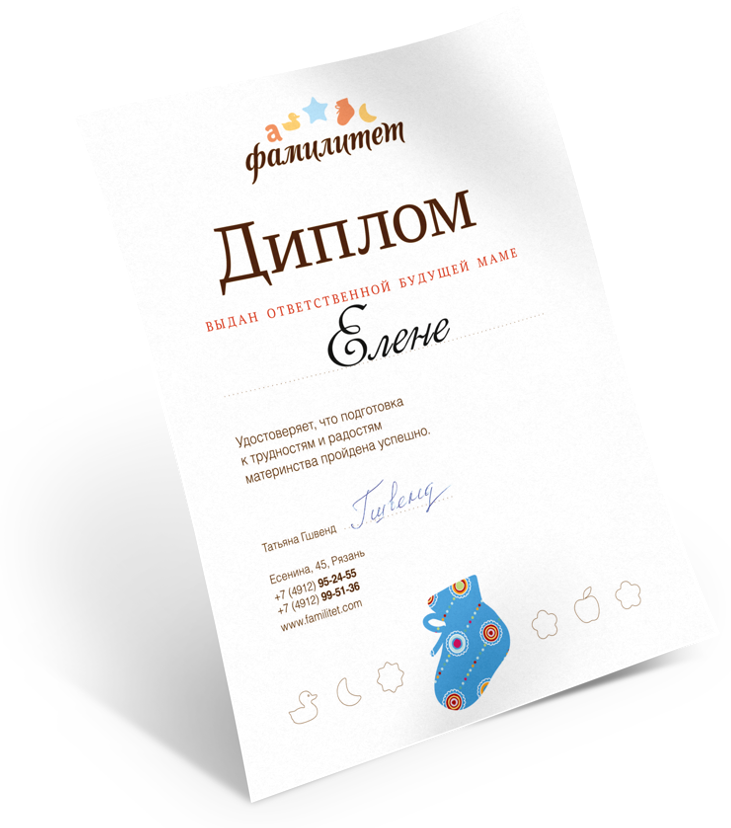
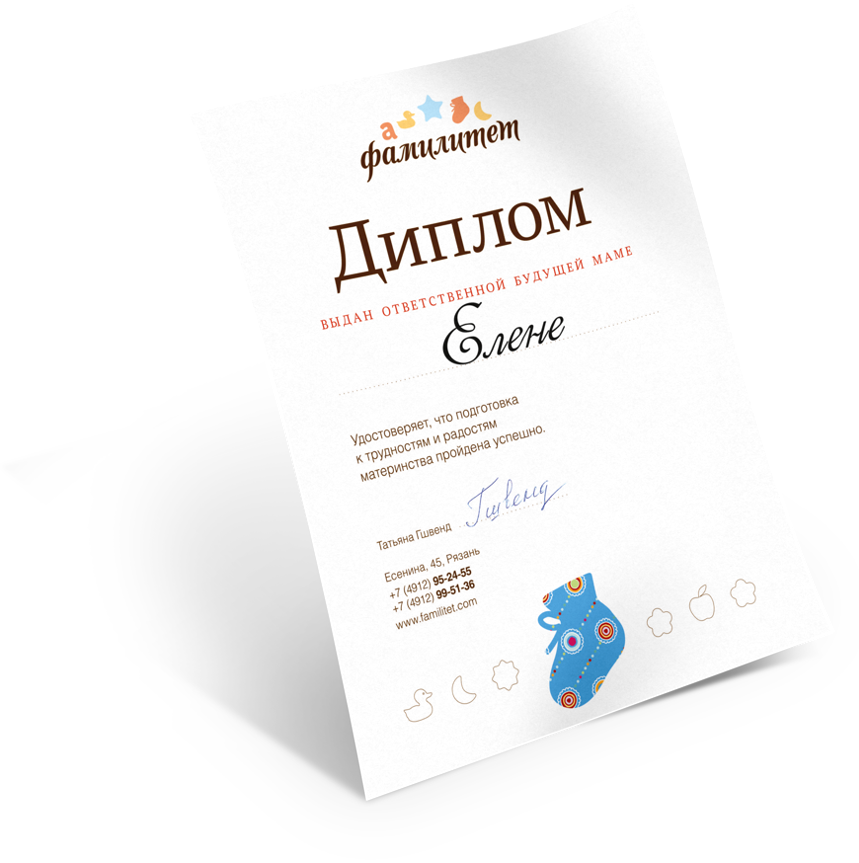
index page

diff --git a/index.html b/index.html
@@ -65,14 +65,31 @@
   <div id="content">
     <div class="container py-3">
       <div class="row">
-        <div class="col-lg-6">
+        <div class="col-lg-6 pb-3 pb-lg-0">
           <h2 class="h1">Для своего ребенка вы &mdash; самые лучшие мама и папа на свете!</h2>
           <p class="lead">Lorem ipsum dolor sit amet consectetur adipisicing elit. Voluptatibus corrupti ipsum reprehenderit facere possimus sapiente dolorum? Quo amet laborum rerum!</p>
           <p class="lead">Lorem ipsum dolor sit amet consectetur adipisicing elit. Delectus optio dicta nostrum voluptatem ut ratione natus rerum odit magni fuga.</p>
           <a class="lead" href="#">Подробно о нашем центре</a>
         </div>
-        <div class="col-lg-6">
-  
+        <div class="col-lg-6 pb-3 pb-lg-0">
+          <div class="schedule-grid">
+            <div class="schedule-date">
+              <div class="date-day calendar-flower">23</div>
+              <div class="date-month text-site-ruby">сентября</div>
+            </div>
+            <div class="schedule-content">
+              <h4>Встреча с неонатологом</h4>
+              <p>Lorem ipsum dolor sit amet consectetur adipisicing elit. Natus, sequi minima. Asperiores quidem deleniti tenetur accusantium dolorem explicabo ut corrupti.</p>
+            </div>
+            <div class="schedule-date">
+              <div class="date-day calendar-star">1</div>
+              <div class="date-month text-site-gulfstream">октября</div>
+            </div>
+            <div class="schedule-content">
+              <h4>Женский круг с Татьяной Гшвенд</h4>
+              <p>Lorem ipsum dolor, sit amet consectetur adipisicing elit. Distinctio temporibus itaque explicabo aliquid voluptates, alias reprehenderit vero facere labore dicta! Tenetur labore ipsam soluta voluptatem!</p>
+            </div>
+          </div>
         </div>
       </div>
     </div>
@@ -95,7 +112,7 @@
           <h2 class="display-4 text-site-ruby">576 <small>дипломов выдано будущим мамам!</small></h2>
         </div>
       </div>
-      <div class="row pb-3">
+      <div class="row pb-4">
         <div class="col-lg-3">
           <img src="/img/pregnancy.svg" alt="" class="img-fluid py-3">
           <h2>Беременным</h2>
@@ -120,6 +137,26 @@
               <img src="/img/diploma.png" alt="">
             </div>
           </div>
+        </div>
+      </div>
+      <div class="row pb-3">
+        <div class="col-12 col-lg-10 col-xl-8 offset-lg-1 offset-xl-2">
+          <form action="">
+            <div class="row no-gutters">
+              <div class="col-6 col-lg-4">
+                <h2 class="display-3">15%</h2>
+                <h3 class="px-2 text-uppercase text-site-cinnabar">Скидка</h3>
+                <p>Многодетным семьям, одиноким мамам и родителям-студентам на групповые программы</p>
+              </div>
+              <div class="col-6 col-lg-4 d-flex justify-content-center align-self-center align-self-lg-auto">
+                <div>
+                  <button type="submit" class="btn btn-primary rounded-pill">
+                    <h2 class="my-0 px-3 py-2">Записаться!</h2>
+                  </button>
+                </div>
+              </div>
+            </div>
+          </form>
         </div>
       </div>
     </div>

diff --git a/scss/app.scss b/scss/app.scss
@@ -23,6 +23,7 @@
   font-style: normal;
   font-display: fallback;
 }
+
 // colors
 $site-heath: #FFFCE4;
 $site-ruby: #D71C6D;
@@ -52,6 +53,7 @@ $theme-colors: (
     "site-yellow": $site-yellow,
     "site-rosebud": $site-rosebud
 );
+
 // variables
 $body-color: $site-chocolate;
 
@@ -66,6 +68,7 @@ $small-font-size: 85%;
 
 $link-color: $site-malibu;
 $link-decoration: underline;
+
 // classes
 .font-antiquasi {
     font-family: "AntiQuasi";
@@ -142,6 +145,47 @@ $link-decoration: underline;
         }
     }
 }
+.schedule-grid {
+    display: grid;
+    grid-template-columns: auto 1fr;
+    grid-gap: 2rem 15px;
+    .schedule-date {
+        .date-day {
+            display: flex;
+            justify-content: center;
+            align-items: center;
+            min-height: 100px;
+            color: #FFFFFF;
+            font-family: $headings-font-family;
+            font-size: 3rem;
+            padding-top: 12px;
+            background-position: center center;
+            background-repeat: no-repeat;
+            // date background variants
+            &.calendar-flower {
+                background-image: url('../img/flower-date.svg');
+            }
+            &.calendar-star {
+                background-image: url('../img/star-date.svg');
+            }
+        }
+        .date-month {
+            @extend .h4;
+            text-align: center;
+        }
+    }
+    .schedule-content {
+        h4 {
+            display: inline-block;
+            margin: 0.75rem 0;
+            padding: 1.375rem 0;
+            background: url('../img/circles-line-gorizontal.png') bottom left repeat-x;
+        }
+        p {
+            margin: 0;
+        }
+    }
+}
 .footer {
     position: relative;
     &::after {
@@ -161,6 +205,7 @@ $link-decoration: underline;
         background-repeat: repeat-x;
     }
 }
+
 // media specific
 @media (min-width: 576px) { // Small devices (landscape phones, 576px and up)
 
@@ -174,10 +219,11 @@ $link-decoration: underline;
     }
     .features {
         overflow: hidden;
+        min-height: 930px;
     }
     .diploma {
         top: -60px;
-        left: -120px;
+        left: -240px;
     }
 }
 @media (min-width: 1200px) { // Extra large devices (large desktops, 1200px and up)
@@ -200,5 +246,6 @@ $link-decoration: underline;
 @media (max-width: 767.98px) { // Small devices (landscape phones, less than 768px)
 
 }
+
 // bootstrap
 @import "../../../bootstrap-4.3.1/scss/bootstrap";
